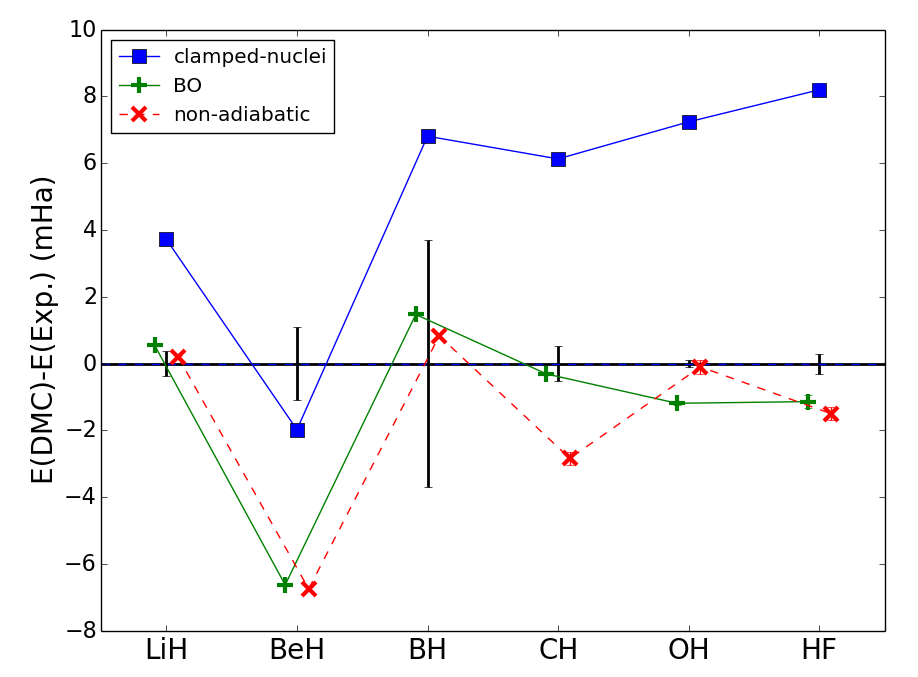
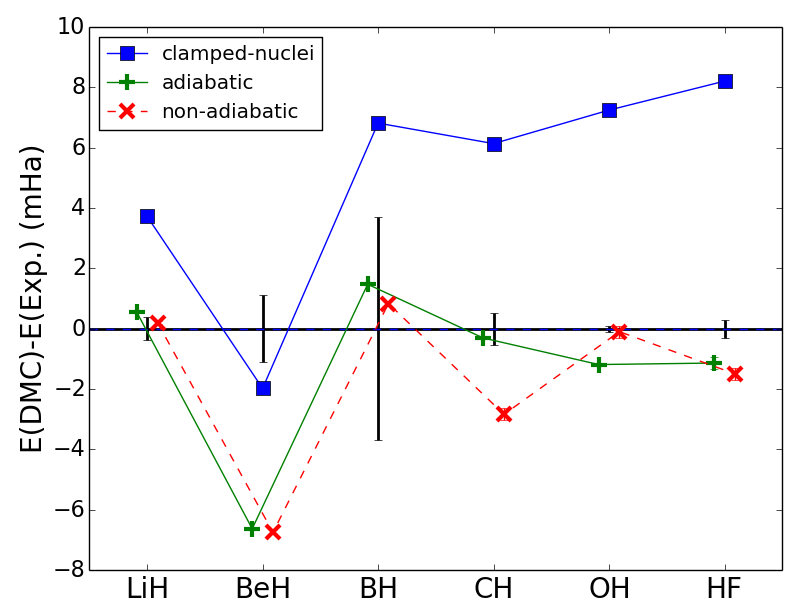
New Title
Focus on non-adiabaticity

diff --git a/main.tex b/main.tex
@@ -7,7 +7,7 @@
 
 \begin{document}
 
-\title{Some Cute Title}
+\title{How Large are Non-adiabatic Effects in Realistic Systems?}
 \input{Section/authors}
 \begin{abstract}
 In this work we calculate the non-relativistic ground-state energies of atomic and molecular systems with and without the Born-Oppenheimer approximation. For this we utilize the fixed-node diffusion Monte Carlo method, in which the nodes depend on both the electronic and ionic positions. We report ground-state energies, ionization energies and atomization energies to a statistical accuracy of less than $0.1$ mHa for all but the largest systems. We find the ionization energies of the atoms to be independent of the adiabatic assumption except for O and F where the non-adiabatic and clamped-ion ionization energies differ by less than 0.5 mHa. This observation suggests that the non-adiabatic coupling between the valence electrons and nucleus motion is not important in the ionization process. The atomization energies, however, are influenced by the non-adiabatic coupling between electrons and nuclei at the mHa level. We demonstrate that the fixed-node approximation provides a highly accurate and scalable approach to treating molecular systems beyond the Born-Oppenheimer approximation.
@@ -19,12 +19,8 @@ There have been several recent discoveries~\cite{cederbaum1,gross2014,boent} sug
 
 As a framework to address these problems in general realistic systems, we recently demonstrated that quantum Monte Carlo (QMC) can be combined with quantum chemistry techniques to generate electron-ion wave functions~\cite{Tubman_ECG}.  We treated realistic molecular systems and demonstrated that our method can be scaled to larger systems than previously considered while maintaining a highly accurate wave function. In the following we extend our previous work by considering the simulation of a larger benchmark set of atoms and molecules.  We calculate ionization energies and atomization energies that can be directly compared with previous benchmarking results.
 
-To fix nomenclature, we will adhere to the definitions given by Handy et. al.~\cite{Handy_DBOC} where the full electron-ion Hamiltonian is written as the sum of the nuclei kinetic energy operator and an electronic Hamiltonian. 
-\begin{align}
-\hat{H}=\hat{T}_n+\hat{H}_e
-\end{align}
-
-The adiabatic assumption will refer to the approximation of the full electron-ion wave function by a single product of an ionic wave function and an eigenstate of the electronic Hamiltonian. The Born-Oppenheimer (BO) approximation will refer to the further neglegence of the diagonal Born-Oppenheimer correction (DBOC) term in solving for the ionic wave function. In this context, the clamped-nuclei ground-state energy $E_c$ is the lowest eigenvalue of the electronic Hamiltonian $\hat{H}_e$ and the non-adiabatic ground-state energy $E_n$ is the eigenvalue of the full Hamiltonian $\hat{H}$. %The BO energy is the sum of the clamped-nuclei energy and zero-point energy (ZPE) of the nuclei estimated without the DBOC term whereas the adiabatic energy includes ZPE with the DBOC term.
+Adhering to the definitions given by Worth and Cederbaum \cite{Cederbaum_Review},
+Born-Oppenheimer (BO) assumption will refer to the approximation of the full electron-ion wave function by a single product of an ionic wave function and an eigenstate of the electronic Hamiltonian. The adiabatic approximation will refer to the further neglegence of the diagonal Born-Oppenheimer correction (DBOC) term in solving for the ionic wave function. In this context, the clamped-nuclei ground-state energy $E_c$ is the lowest eigenvalue of the electronic Hamiltonian and the non-adiabatic ground-state energy $E_n$ is the eigenvalue of the full molecular Hamiltonian. %The BO energy is the sum of the clamped-nuclei energy and zero-point energy (ZPE) of the nuclei estimated without the DBOC term whereas the adiabatic energy includes ZPE with the DBOC term.
 
 \section{Method}
 \subsection{Fixed-Node Diffusion Monte Carlo (FN-DMC)}
@@ -36,7 +32,7 @@ In all but a handful of previous QMC simulations, calculations are performed wit
 
 \subsection{Electronic Wave Function and Optimization}
 
-There are several different approaches for generating high quality electronic wave functions for a FN-DMC calculation~\cite{Umrigar_Alleviation,Toulouse_Bench,Brown_Bench,Seth_Bench}. We use an initial guess for the wave function that is generated from complete active space self-consistent-field (CASSCF) \cite{Chaban_MCSCF,Szabo} calculations using the quantum chemistry package GAMESS \cite{GAMESS}. The optimized orbitals are then used in a singles and doubles configuration interaction (CISD) calculation to generate a series of configuration state functions (CSF)~\cite{Clark_Bench}. The multi-CSF expansion of the wave function can be expressed in the following form,
+There are several different approaches for generating high quality electronic wave functions for a FN-DMC calculation~\cite{Umrigar_Alleviation,Toulouse_Bench,Brown_Bench,Seth_Bench}. We use an initial guess for the wave function that is generated from complete active space self-consistent-field (CASSCF) \cite{Chaban_MCSCF,Szabo} calculations using the quantum chemistry package GAMESS \cite{GAMESS}. The optimized orbitals are then used in a configuration interaction singles and doubles (CISD) calculation to generate a series of configuration state functions (CSF)~\cite{Clark_Bench}. The multi-CSF expansion of the wave function can be expressed in the following form,
 \begin{align}
 \Psi_{\text{CISD}}(\vec{r};\vec{R}_o)=\sum\limits_{i=1}^{N_{\text{CSF}}}\alpha_i\phi_i(\vec{r};\vec{R}_o), \label{eq:psi_gms}
 \end{align}
@@ -44,11 +40,9 @@ where $\vec{r}$ refers to the spatial coordinates of all the electrons and $\vec
 
 After the multi-CSF expansion is generated, we impose the electron-nucleus cusp condition on each molecular orbital~\cite{cusp} and add a Jastrow factor to the wave function to include electron correlation~\cite{Kato}. Our Jastrow factor contains electron-electron, electron-nucleus and electron-electron-nucleus terms. The full electronic wave function used in FN-DMC is then,
 \begin{align}
-\psi_e(\vec{r})=e^{J(\vec{r},\vec{\beta})}\Psi_{\text{CISD}}(\vec{r};\vec{R}_o)\label{eq:psie}
+\psi_e(\vec{r};\vec{R})=e^{J(\vec{r},\vec{R},\vec{\beta})}\Psi_{\text{CISD}}(\vec{r};\vec{R})\label{eq:psie}
 \end{align}
 We optimize the CSF and Jastrow coefficients $\vec{\alpha},\vec{\beta}$ simultaneously with QMCPACK \cite{QMCPACK}. Optimization is performed with the ions clamped to their equilibrium positions. We include all CSFs with coefficients lager than a specific cutoff $\epsilon$ to lend reasonable flexibility to the wave function during optimization. We include as many CSFs as possible to maximize the flexibility of the wave function. However, the inclusion of too many CSFs with small expansion coefficients can introduce noise as they require a large number of samples in the optimization step to be optimized. We have chosen $\epsilon$ to restrict the number of CSFs in the wave function to be $\sim$1000 in all systems. Optimization was performed with the linear method with roughly $10^6$ statistically independent samples, and we use a cost function consisting of equal parts average local energy and reweighted variance.
-
-\subsection{Electron-Ion Wave Function}
 
 \begin{figure}[h]
 \includegraphics[width=9cm]{fig1a.pdf}
@@ -56,11 +50,13 @@ We optimize the CSF and Jastrow coefficients $\vec{\alpha},\vec{\beta}$ simultan
 \caption{ Symmetries for simulation of atomic and molecular systems in QMC {\bf (a)} For atomic systems we can consider the entire wave function shifting with the ion. This process can be visualized by following a contour of the wave function. The thick dashed circle represents a contour of the electronic wave function when the proton is at its reference position $\vec{R}_o$ and the thin dashed circle represents the same contour when the proton has moved to a new position $\vec{R}$. To evaluate the ion-dependent electronic wave function $\bar{\psi}_e(\vec{r},\vec{R})$, we simply map the electron to its proper place in the reference wave function $\psi_e(\vec{r};\vec{R}_o)$. That is, $\bar{\psi}_e(\vec{r},\vec{R})=\bar{\psi}_e(\vec{r}+\vec{s},\vec{R}_o)=\psi_e(\vec{r}+\vec{s};\vec{R}_o)$ where $\vec{s}$ is the shift required to put the proton back to its reference position. {\bf (b)} For H$_2^+$, we pick one of the protons as an "anchor" and approximate the new wave function by dragging the reference wave function with the "anchor" proton. We also rotate the wave function to align its axis of symmetry with the orientation of the two protons. \label{fig:drag}}
 \end{figure}
 
+\subsection{Electron-Ion Wave Function}
+
 Once a satisfactory electronic wave function has been obtained, we construct the electron-ion wave function using the ansatz previously investigated~\cite{Tubman_ECG},
 \begin{align}
-\Psi_{ei}(\vec{r},\vec{R})=\psi_I(\vec{R})\bar{\psi}_e(\vec{r},\vec{R}), \label{eq:psi}
+\Psi_{eI}(\vec{r},\vec{R})=\psi_I(\vec{R})\bar{\psi}_e(\vec{r},\vec{R}), \label{eq:psi}
 \end{align}
-where $\vec{R}$ denotes the spatial coordinates of all ions and $\bar{\psi}_e(\vec{r},\vec{R})$ is an ion-dependent electronic wave function adapted from the clamped-ion wave function $\psi_e(\vec{r};\vec{R}_o)$. Due to the nuclear localization of the Gaussian electronic basis set used in the quantum chemistry calculations for constructing the electronic wave function, the nodes of $\bar{\psi}_e$ change based on the ionic positions, which we have previously called the dragged-node approximation~\cite{Tubman_ECG}. In general, the nodes only coincide with those obtained in the clamped-ion limit when the ions are at their equilibrium positions $\bar{\psi}_e(\vec{r},\vec{R}_o)=\psi_e(\vec{r};\vec{R}_o)$. However, for atoms and ions $\bar{\psi}_e(\vec{r},\vec{R})=\psi_e(\vec{r};\vec{R})$. Although there are approaches for going beyond this approximation, it was demonstrated to be highly accurate over a range of molecules in previous work.~\cite{Tubman_ECG} For the systems considered here, we can impose various symmetries of the Hamiltonian onto the wave function that arise from the relative motion of the ions. In Fig.~\ref{fig:drag} we demonstrate this strategy for the simple cases of a hydrogen atom and a H$_2^+$ molecular ion. This can be generalized for use in larger systems or even applied to parts of a bigger system, e.g., treating light ions as quantum particles and heavy ions as "clamped".
+where $\vec{R}$ denotes the spatial coordinates of all ions and $\bar{\psi}_e(\vec{r},\vec{R})$ is an ion-dependent electronic wave function adapted from the clamped-ion wave function $\psi_e(\vec{r};\vec{R}_o)$ through basis set dependence. Due to the nuclear localization of the Gaussian electronic basis set used in the quantum chemistry calculations for constructing the electronic wave function, the nodes of $\bar{\psi}_e$ change based on the ionic positions, which we have previously called the dragged-node approximation~\cite{Tubman_ECG}. In general, the nodes only coincide with those obtained in the clamped-ion limit when the ions are at their equilibrium positions $\bar{\psi}_e(\vec{r},\vec{R}_o)=\psi_e(\vec{r};\vec{R}_o)$. However, for atoms and ions this approximation is equivalent to re-optimizing the electronic wave function at each ionic configuration, i.e. $\bar{\psi}_e(\vec{r},\vec{R})=\psi_e(\vec{r};\vec{R})$. Although there are approaches for going beyond the dragged-node approximation, it was demonstrated to be highly accurate over a range of molecules in previous work.~\cite{Tubman_ECG} For the systems considered here, we can impose various symmetries of the Hamiltonian onto the wave function that arise from the relative motion of the ions. In Fig.~\ref{fig:drag} we demonstrate this strategy for the simple cases of a hydrogen atom and a H$_2^+$ molecular ion. This can be generalized for use in larger systems or even applied to parts of a bigger system, e.g., treating light ions as quantum particles and heavy ions as "clamped".
 
 The ionic wave function consists of simple products of Gaussian wave functions over each pair of nuclei,
 \begin{align}
@@ -82,9 +78,9 @@ Ground state energies are calculated for first row atoms, ions and hydrides with
 \caption{FN-DMC ground state energies for $\text{Be}^+$, Be, $\text{B}^+$, B, $\text{C}^+$ relative to ECG references~\cite{Stanke_Be,Puchalski_Be+,Bubin_BeH_noBO,Bubin_B,Bubin_B+,Bubin_C+} for either clamped-ion or non-adiabatic calculations. These relative energies provide an estimate for the fixed-node error in the electronic and electron-ion wave functions respectively.\label{fig:atom-ECG}}
 \end{figure}
 
-As an illustration of the high quality QMC techniques used in this work, we compare our adiabatic atomic results with a recent QMC benchmark study~\cite{Seth_Bench}. The clamped nuclei ground state FN-DMC energies consistently agree across all systems (except for O$^{+}$), within error bars. This is an interesting coincidence since we used a different approach in optimizing our wave functions. In particular our large ($\sim$ 1000 CSF) multi-determinant expansions can be compared with the approach used by Seth {\it et al.}~\cite{Seth_Bench}, which relies on moderately-sized multi-determinant expansions ($\sim$ 100 CSF) with a backflow transformation. 
+As an illustration of the high quality QMC techniques used in this work, we compare our adiabatic atomic results with a recent QMC benchmark study~\cite{Seth_Bench}. The clamped-ion ground state FN-DMC energies consistently agree across all systems (except for O$^{+}$), within error bars. This is an interesting coincidence since we used a different approach in optimizing our wave functions. In particular our large ($\sim$ 1000 CSF) multi-determinant expansions can be compared with the approach used by Seth {\it et al.}~\cite{Seth_Bench}, which relies on moderately-sized multi-determinant expansions ($\sim$ 100 CSF) with a backflow transformation. 
 
-For the atomic systems, there are five ECG calculations of non-adiabatic ground state energies we can use as benchmarks. The non-adiabatic ground-state energies for Be, $\text{Be}^+$, B, $\text{B}^+$ and $\text{C}^+$ are in agreement with ECG results within 0.3 mHa as shown in Figure \ref{fig:atom-ECG}. In Figure \ref{fig:atom-ECG}, the error bars for the reference ECG results are absorbed into the DMC error bars for clarity. Assuming the ECG results are converged to the exact ground-state energies in both the clamped-ion and non-adiabatic cases, the difference between our clamped-ion DMC ground-state and ECG reference is the amount of fixed-node error present in our electronic wave functions, while its non-adiabatic counterpart is the fixed-node error for the electron-ion wave function. We see that the fixed-node error in the electron-ion wave functions can be larger than that in the electronic wave function at the sub-mHa level. Since the dragged-node approximation does not change the quality of nodes for atoms and ions, the additional fixed-node error in the electron-ion wave function indicates that nuclear-electron correlation can non-trivially modify the nodes of the electronic wave function.
+For the atomic systems, there are five ECG calculations of non-adiabatic ground state energies we can use as benchmarks. The non-adiabatic ground-state energies for Be, $\text{Be}^+$, B, $\text{B}^+$ and $\text{C}^+$ are in agreement with ECG results within 0.3 mHa as shown in Figure \ref{fig:atom-ECG}. In Figure \ref{fig:atom-ECG}, the error bars for the reference ECG results are absorbed into the DMC error bars for clarity. Assuming the ECG results are converged to the exact ground-state energies in both the clamped-ion and non-adiabatic cases, the difference between our clamped-ion DMC ground-state and ECG reference is the amount of fixed-node error present in our electronic wave functions, while its non-adiabatic counterpart is the fixed-node error for the electron-ion wave function. We see that the fixed-node error in the electron-ion wave functions can be larger than that in the electronic wave function at the sub-mHa level. Since the dragged-node approximation does not change the quality of nodes for atoms and ions and the ground-state ionic wave function is nodeless, the additional fixed-node error in the electron-ion wave function indicates that nuclear-electron correlation can non-trivially modify the nodes of the electronic wave function.
 
 \begin{figure}[h]
 \includegraphics[scale=.37]{Figures/atom-nad-ad}
@@ -96,13 +92,13 @@ For the atomic systems, there are five ECG calculations of non-adiabatic ground 
 \caption{Non-adiabatic contribution to ground state energies of ions and their hydrogen-like atoms calculated with FN-DMC and analytically. $E_n$ denotes the non-adiabatic ground state energy and $E_c$ the clamped-ion ground state energy. Non-adiabatic contribution shows very little dependence with the ionized state. \label{fig:analytical}}
 \end{figure}
 
-In Figure \ref{fig:atom-nad-ad}, we demonstrate the non-BO contribution to ground-state energies which is defined as the difference between the non-adiabatic and clamped-ion ground-state energies. By definition, non-BO contribution includes DBOC as well as any non-adiabatic contribution. For atoms and ions, DBOC physically describes the effective confinement of the nucleus due to coupling between the electronic and nuclear motions. This confinement will add a nuclear kinetic contribution to the camped-ion ground-state energy. Non-adiabatic effect encompasses the rest of the modifications to the electron-ion wave function due to electron-nuclear correlation. As shown in Figure \ref{fig:atom-nad-ad}, the amount of non-BO contribution is always positive and increases with atomic number but stays relatively constant between the neatral and cationic species. This observation suggests that for atomic systems, the non-adiabatic coupling between electrons and the nucleus motion is small. Almost all of the non-BO contribution can be attributed to the modification of the nuclear potential energy surface due to the inclusion of the DBOC term. This point is further illustrated by comparing the non-BO contributions in the cations with their corresponding hydrogen-like atoms as shown in Figure \ref{fig:analytical}. The non-BO contributions in the hydrogen-like atoms can be obtained analytically by using the reduced mass. The result in Hartree atomic units is
+In Figure \ref{fig:atom-nad-ad}, we demonstrate the amount of non-adiabatic contribution to ground-state energies in atoms and ions which is calculated as the difference between the non-adiabatic and clamped-ion ground-state energies. By definition, non-adiabatic contribution includes DBOC as well as any other non-BO contribution arising from the difference between the true wave function and the BO product ansatz. For atoms and ions, DBOC physically describes the effective confinement of the nucleus due to coupling between the electronic and nuclear motions. This confinement will add a nuclear kinetic contribution to the camped-ion ground-state energy. Non-adiabatic effect encompasses the rest of the modifications to the electron-ion wave function due to electron-nuclear correlation. As shown in Figure \ref{fig:atom-nad-ad}, the amount of non-adiabatic contribution is always positive and increases with atomic number but stays relatively constant between the neatral and cationic species. This observation suggests that for atomic systems, the non-adiabatic coupling between electrons and the nucleus motion is small. Almost all of the non-BO contribution can be attributed to the modification of the nuclear potential energy surface due to the inclusion of the DBOC term. This point is further illustrated by comparing the non-BO contributions in the cations with their corresponding hydrogen-like atoms as shown in Figure \ref{fig:analytical}. The non-BO contributions in the hydrogen-like atoms can be obtained analytically by using reduced mass. The result in Hartree atomic units is
 \begin{align}
 E_n-E_c=\frac{Z^2}{2(M+1)}
 \end{align}
 where $M$ and $Z$ are the the mass and atomic number of the nucleus. We see in Figure \ref{fig:analytical} that even when going from 1 electron to 9 electrons in the case of $F$, the total non-BO energy only changes by 0.5 mHa. It is also interesting to note that for $\text{Li}^{2+}$ and $\text{Be}^{3+}$, the addition of electrons decreases the overall non-BO contribution whereas for $\text{C}^{5+}$ and heavier nuclei, the addition of electrons increase the it.
 
-The ionization energies are reported in Table \ref{tab:ionization} and shown in Figure \ref{fig:ionization}. It is interesting to note that even though the ground-state energy of an atom can differ significantly from the clamped-ion to the non-adiabatic calculation (as much as 3 mHa for $\text{F}^+$). The ionization energies calculated with and without the Born-Oppenheimer approximation are statistically indistinguishable except for O and F, where the differences are 0.26(11)mHa and 0.49(12)mHa respectively.
+The ionization energies are reported in Table \ref{tab:ionization} and shown in Figure \ref{fig:ionization}. It is interesting to note that even though the ground-state energy of an atom can differ significantly from the clamped-ion to the non-adiabatic calculation (as much as 3 mHa for $\text{F}^+$). The ionization energies calculated with and without the Born-Oppenheimer approximation are statistically indistinguishable except for O and F, where the non-adiabatic effects on the ionization energies are 0.26(11)mHa and 0.49(12)mHa respectively. These differences may or may not be physical. As shown in Figure \ref{fig:atom-ECG}, even in the clamped-ion case, the fixed-node error 
 
 \begin{figure}
 \centering
@@ -116,7 +112,7 @@ The ionization energies are reported in Table \ref{tab:ionization} and shown in 
 
 The clamped-nuclei ground-state energies for LiH, BeH and BH are on par with the best available quantum chemistry references~\cite{Adamowicz_LiH,Koput_BeH,Miliordos_BH}. The non-adiabatic energies are in agreement with the ECG results for LiH and BeH to within 0.5 mHa as shown in Figure \ref{fig:dia-ECG}. For small systems, ECG results are typically orders of magnitude more accurate than the best QMC and other quantum chemistry calculations. However, with BH being one of the largest ECG simulations performed, the QMC result is actually lower in energy, in this case by 1 mHa. For the larger systems CH, OH, and HF, there are no explicit simulations we can compare against, and we combine semi-empirical~\cite{Davidson_Atoms} and thermochemistry results~\cite{Feller_Corrections} for comparison.
 
-To estimate the non-BO contribution to the ground-state energy of a hydride, we need to calculate the difference between a non-adiabatic and a BO calculation. To produce BO references we add the zero-point energies estimated in~\cite{Feller_Corrections} to our clamped-nuclei results as exact corrections. The results are shown in Figure \ref{fig:dia-nad-ad}. The amount of non-adiabatic contribution for the hydrides investigated all fall in the range of a few mHa and seem to peak for CH and HF. However, it is likely that the actual amount of non-adiabatic energies are smaller than what is being shown in Figure \ref{fig:dia-nad-ad}, as the predicted atomization energies for CH and HF agree less well with experiments than their adiabatic counterparts.
+To estimate the non-adiabatic contribution to the ground-state energy of a hydride, we need to calculate the difference between a non-adiabatic and an adiabatic calculation. To produce adiabatic references we add the zero-point energies estimated in~\cite{Feller_Corrections} to our clamped-nuclei results as exact corrections. The results are shown in Figure \ref{fig:dia-nad-ad}. The amount of non-adiabatic contribution for the hydrides investigated all fall in the range of a few mHa and seem to peak for CH and HF. However, it is likely that the actual amount of non-adiabatic energies are smaller than what is being shown in Figure \ref{fig:dia-nad-ad}, as the predicted atomization energies for CH and HF agree less well with experiments than their adiabatic counterparts.
 
 \begin{figure}[h]
 \centering
@@ -126,7 +122,7 @@ To estimate the non-BO contribution to the ground-state energy of a hydride, we 
 
 \begin{figure}[h]
 \includegraphics[scale=.37]{Figures/dia-nad-ad}
-\caption{Non-BO contribution to the ground-state energies in hydrides. The BO reference energies are calculated by adding zero-point contributions from \cite{Feller_Corrections} to our clamped-nuclei results. \label{fig:dia-nad-ad}}
+\caption{Non-adiabatic contribution to the ground-state energies in hydrides. The adiabatic reference energies are calculated by adding zero-point contributions from \cite{Feller_Corrections} to our clamped-nuclei results. \label{fig:dia-nad-ad}}
 \end{figure}
 
 For the LiH molecule we are also interested in calculating the electron affinity for comparison to ECG results. We calculated the ground state energy of LiH$^-$ to be $-8.08220(2)$~Ha for the case of clamped nuclei.  With non-adiabatic effects included our result is  $-8.07811(3)$~Ha. Our non-adiabatic result is in good agreement with a previous ECG study \cite{Bubin_LiH_noBO}, which reported a value of $-8.07856887$~Ha. We report an electron affinity of $0.01191(4)$~Ha, which can be compared to the ECG prediction of $0.012132(2)$~Ha and agrees with experiment, $0.0126(4)$~Ha. \footnote{We note that LiH ground state energies which we compare against are mislabeled in Ref.\cite{Bubin_LiH_noBO}, with $\text{LiH}^-$ and LiD being switched.}
@@ -134,13 +130,13 @@ For the LiH molecule we are also interested in calculating the electron affinity
 \begin{figure}[h]
 \centering
 \includegraphics[scale=.4]{Figures/atomization}
-\caption{Atomization energies of first row hydrides obtained with FN-DMC relative to experimental data. The BO results are estimated by adding zero-point energies from \cite{Feller_Corrections} to the clamped nuclei energies as exact corrections. \label{fig:atomization}}
+\caption{Atomization energies of first row hydrides obtained with FN-DMC relative to experimental data. The adiabatic results are estimated by adding zero-point energies from \cite{Feller_Corrections} to the clamped nuclei energies as exact corrections. \label{fig:atomization}}
 \end{figure}
 
 The atomization energy of the diatomic systems are reported in Table \ref{tab:atomization} and shown in Figure \ref{fig:atomization}. There are high quality thermochemistry benchmark results to which we can compare ~\cite{Feller_Corrections}. To compare against the thermochemistry benchmark results, we take the reference energies from the last column of Table VI of Ref.~\cite{Feller_Corrections} and subtract the corrections in the $\Delta E_{SR}$ (scalar relativistic) and SO (spin-orbit coupling) columns for comparison with our non-adiabatic energies. For the comparison with our adiabatic energies, we further subtract the DBOC (diagonal Born-Oppenheimer correction) and ZPE (zero-point energy) corrections. Corrections from spin-orbit coupling and relativistic effects are not used, as they are not included in our Hamiltonian. Our biggest errors appear to occur for BeH and CH. For the case of BeH we agree with accuracy higher than 1 mHa with both the ECG results~\cite{Bubin_BeH_noBO} and semi-empirical benchmark~\cite{Feller_Corrections,Davidson_Atoms}. In particular, the ECG results are converged to more digits than the experimental error bar, and it is likely the experimental reference has errors on the order of 5 mHa. For the case of CH, our error is on the order of 3 mHa, which can be due to the dragged-node approximation. 
 
 \section{Conclusion}
-We calculated the ground-state energies of first row atoms and their corresponding ions and hydrides to an accuracy of $0.1$ mHa for all but the largest systems with and without the Born-Oppenheimer assumption. We found the ionization energies of the atoms to be relatively independent of the adiabatic approximation, whereas the atomization energies are affected at the sub-mHa level. We provide benchmark data for the amount of non-BO energy contribution for all systems studied and note that DBOC likely dominates the non-BO energy in atoms and ions.
+We calculated the ground-state energies of first row atoms and their corresponding ions and hydrides to an accuracy of $0.1$ mHa for all but the largest systems with and without the Born-Oppenheimer assumption. We found the ionization energies of the atoms to be relatively independent of the adiabatic approximation, whereas the atomization energies are affected at the sub-mHa level. We provide benchmark data for the amount of non-adiabatic energy contribution for all systems studied. % and note that DBOC likely dominates the non-adiabatic energy in atoms and ions.
 
 These calculations also verified the validity of our wave function ansatz, namely it does indeed produce a high quality electron-ion trial wave function from a good electron wave function. This technique also has the potential to solve interesting larger-scale problems due to its ease of implementation as well as the polynomial scaling in computational time with respect to the number of electrons.  This technique can be generalized quite easily to deal with larger systems.
 

diff --git a/Table/atoms.tex b/Table/atoms.tex
@@ -37,7 +37,7 @@
 \multicolumn{1}{c}{} \\
 FN-DMC & \text{-}7.478056(4) & \text{-}14.66732(1) & \text{-}24.65377(1) & \text{-}37.84449(2) & \text{-}54.58858(3) & \text{-}75.06576(4) & \text{-}99.7316(1) \\
 Seth DMC \cite{Seth_Bench} & \text{-}7.478067(5) & \text{-}14.667306(7) & \text{-}24.65379(3) & \text{-}37.84446(6) & \text{-}54.58867(8) & \text{-}75.0654(1) & \text{-}99.7318(1) \\
-$E_{\text{ref}}$ \cite{Davidson_Atoms,Wang_Li,Stanke_Be,Bubin_B} &  \text{-}7.478060 \tnote{a} & \text{-}14.667356 \tnote{b} & \text{-}24.653866 \tnote{c} & \text{-}37.8450 & \text{-}54.5892 & \text{-}75.0673 & \text{-}99.7339 \\
+$E_{\text{ref}}$\tnote{a} \cite{Davidson_Atoms,Wang_Li,Stanke_Be,Bubin_B} &  \text{-}7.478060 \tnote{b} & \text{-}14.667356 \tnote{c} & \text{-}24.653866 \tnote{d} & \text{-}37.8450 & \text{-}54.5892 & \text{-}75.0673 & \text{-}99.7339 \\
 \multicolumn{1}{c}{} & 
 \multicolumn{1}{c}{} &
 \multicolumn{1}{c}{} &
@@ -47,7 +47,7 @@ $E_{\text{ref}}$ \cite{Davidson_Atoms,Wang_Li,Stanke_Be,Bubin_B} &  \text{-}7.47
 \multicolumn{1}{c}{} &
 \multicolumn{1}{c}{} \\
 \textbf{FN-DMC} & \text{-}7.47743(1) & \text{-}14.66643(2) & \text{-}24.65240(5) & \text{-}37.8428(1) & \text{-}54.58639(8) & \text{-}75.06298(9) & \text{-}99.72922(7) \\
-ECG & N/A & \text{-}14.666435\tnote{d} & \text{-}24.652624\tnote{e} & N/A & N/A & N/A & N/A \\
+ECG & N/A & \text{-}14.666435\tnote{e} & \text{-}24.652624\tnote{f} & N/A & N/A & N/A & N/A \\
 \hline
 
 \multicolumn{1}{c}{Ion} & 
@@ -69,7 +69,7 @@ ECG & N/A & \text{-}14.666435\tnote{d} & \text{-}24.652624\tnote{e} & N/A & N/A 
 \multicolumn{1}{c}{} \\
 FN-DMC & \text{-}7.279919(4) & \text{-}14.324763(6) & \text{-}24.34884(1) & \text{-}37.43075(2) & \text{-}54.05376(3) & \text{-}74.56588(4) & \text{-}99.0913(1) \\
 Seth DMC \cite{Seth_Bench} & \text{-}7.279914(3) & \text{-}14.324761(3) & \text{-}24.34887(2) & \text{-}37.43073(4) & \text{-}54.05383(7) & \text{-}74.56662(7) & \text{-}99.0911(2) \\
-$E_{\text{ref}}$ \tnote{f} \cite{Davidson_Atoms,Puchalski_Be+,Bubin_B+,Bubin_C+} & \text{-}7.27999 & \text{-}14.324763 \tnote{g} & \text{-}24.348884 \tnote{h} & \text{-}37.430880 \tnote{i} & \text{-}54.0552 & \text{-}74.5668 & \text{-}99.0937 \\ 
+$E_{\text{ref}}$ \cite{Davidson_Atoms,Puchalski_Be+,Bubin_B+,Bubin_C+} & \text{-}7.27999 & \text{-}14.324763 \tnote{g} & \text{-}24.348884 \tnote{h} & \text{-}37.430880 \tnote{i} & \text{-}54.0552 & \text{-}74.5668 & \text{-}99.0937 \\ 
 \multicolumn{1}{c}{} &
 \multicolumn{1}{c}{} &
 \multicolumn{1}{c}{} &
@@ -104,12 +104,12 @@ IP (Exp.) \cite{Davidson_Atoms} & 0.19807 & 0.342593 & 0.304982 & 0.41412 & 0.53
 \end{tabular}
 
 \begin{tablenotes}
-\item[a] Wang et. al.~\cite{Wang_Li} with Hylleraas method -7.4780603239101437(45) Ha
-\item[b] Stanke et. al.~\cite{Stanke_Be} with ECG -14.667356486(15) Ha
-\item[c] Bubin et. al.~\cite{Bubin_B} with ECG -24.65386608(250) Ha
-\item[d] Bubin et. al.~\cite{Bubin_BeH_noBO} with ECG \text{-}14.66643544 Ha
-\item[e] Bubin et. al.~\cite{Bubin_B} with ECG \text{-}24.65262387(250) Ha
-\item[f] Ref.~\cite{Davidson_Atoms} is used in the absence of more accurate result. The ionic ground state energies are calculated by adding ionization potentials in Table XII to the atomic ground state energies in Table XI.
+\item[a] Ref.~\cite{Davidson_Atoms} is used in the absence of more accurate result. The ground-state energies are taken from Table XI.
+\item[b] Wang et. al.~\cite{Wang_Li} with Hylleraas method -7.4780603239101437(45) Ha
+\item[c] Stanke et. al.~\cite{Stanke_Be} with ECG -14.667356486(15) Ha
+\item[d] Bubin et. al.~\cite{Bubin_B} with ECG -24.65386608(250) Ha
+\item[e] Bubin et. al.~\cite{Bubin_BeH_noBO} with ECG \text{-}14.66643544 Ha
+\item[f] Bubin et. al.~\cite{Bubin_B} with ECG \text{-}24.65262387(250) Ha
 \item[g] Puchalski et. al.~\cite{Puchalski_Be+} with Hylleraas method -14.32476317679043(22) Ha
 \item[h] Bubin et. al.~\cite{Bubin_B+} with ECG -24.348884446(35) Ha
 \item[i] Bubin et. al.~\cite{Bubin_C+} with ECG -37.43088049 Ha

diff --git a/Table/diatomics.tex b/Table/diatomics.tex
@@ -60,7 +60,7 @@ Feller \tnote{b} \cite{Feller_Corrections} & 0.09262(5) & 0.0809(4) & 0.1354(2) 
 \multicolumn{1}{c}{} &
 \multicolumn{1}{c}{} &
 \multicolumn{1}{c}{} \\
-$D_e$ (this work) & 0.08894(4)  & 0.07585(6)  & 0.12893(7) & 0.1246(2) & 0.1621(2) & 0.2143(2) \\
+$D_o$ (this work) & 0.08894(4)  & 0.07585(6)  & 0.12893(7) & 0.1246(2) & 0.1621(2) & 0.2143(2) \\
 Feller \tnote{c} \cite{Feller_Corrections} & 0.08940(5) & 0.0761(4) & 0.1299(2) & 0.1276(2) & 0.1622(2) & 0.2166(3)\\
 Exp. \cite{CCCBDB} & 0.08874(38) & 0.0826(11) & 0.1281(37) & 0.1275(5) & 0.1622(1) & 0.2158(3) \\
 \hline\hline
